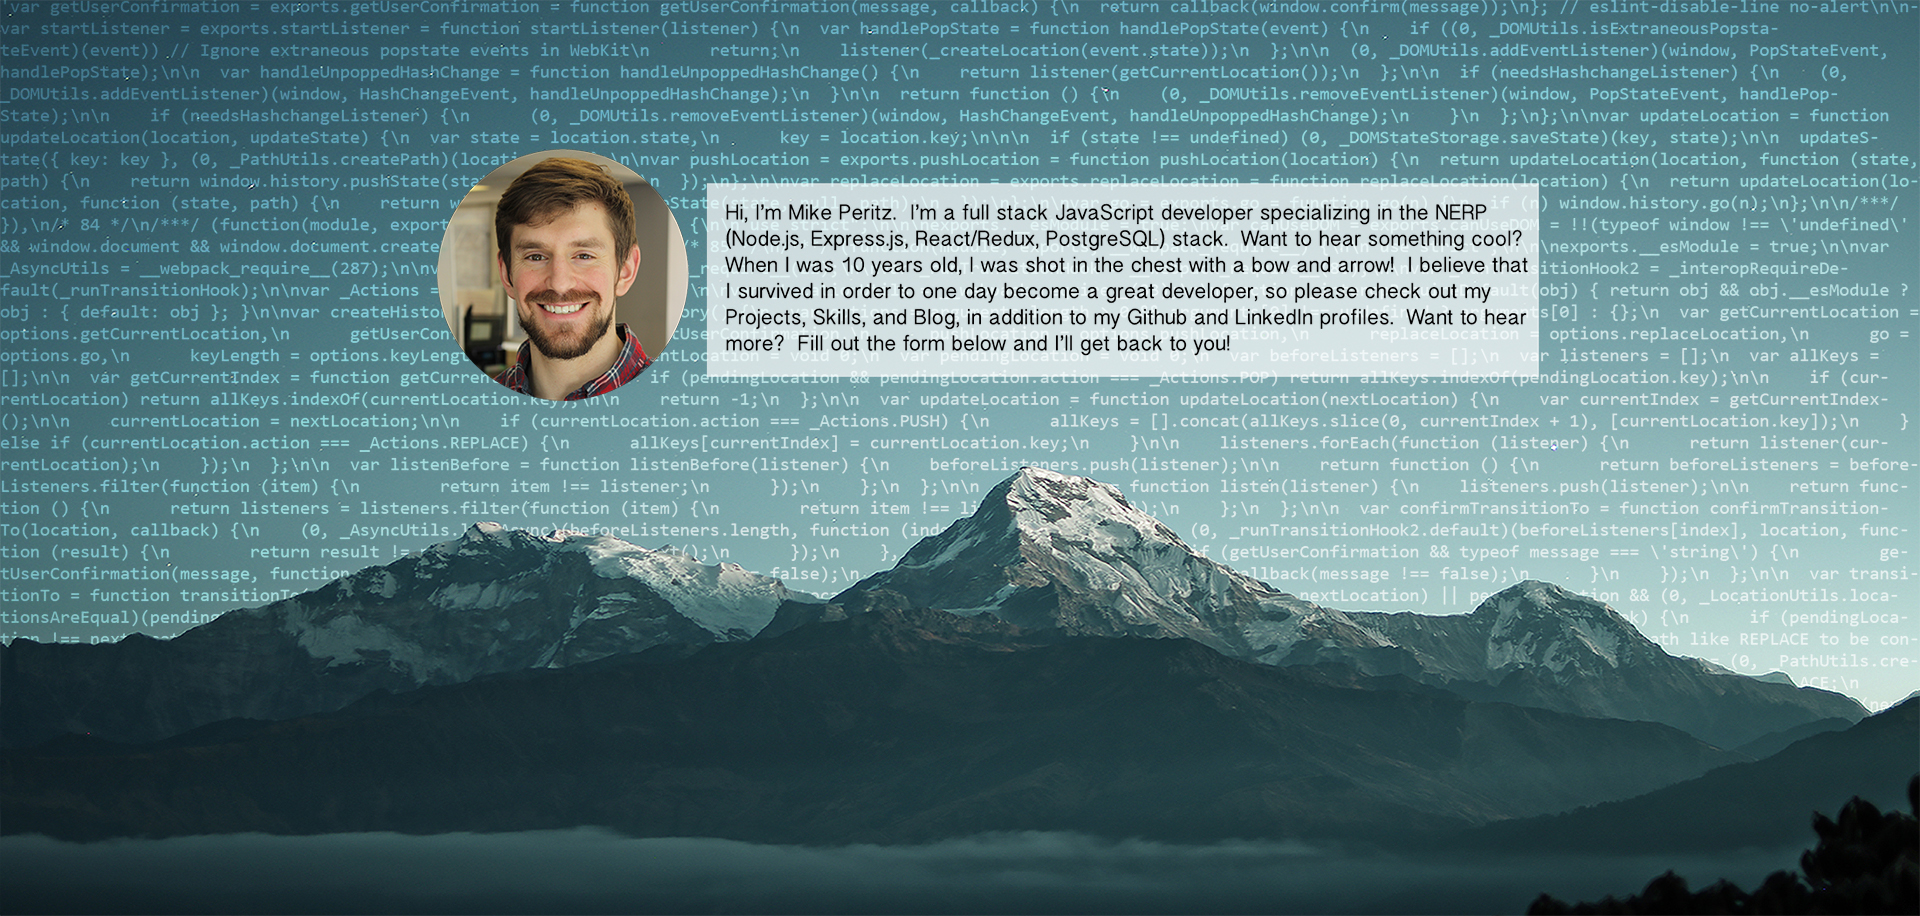
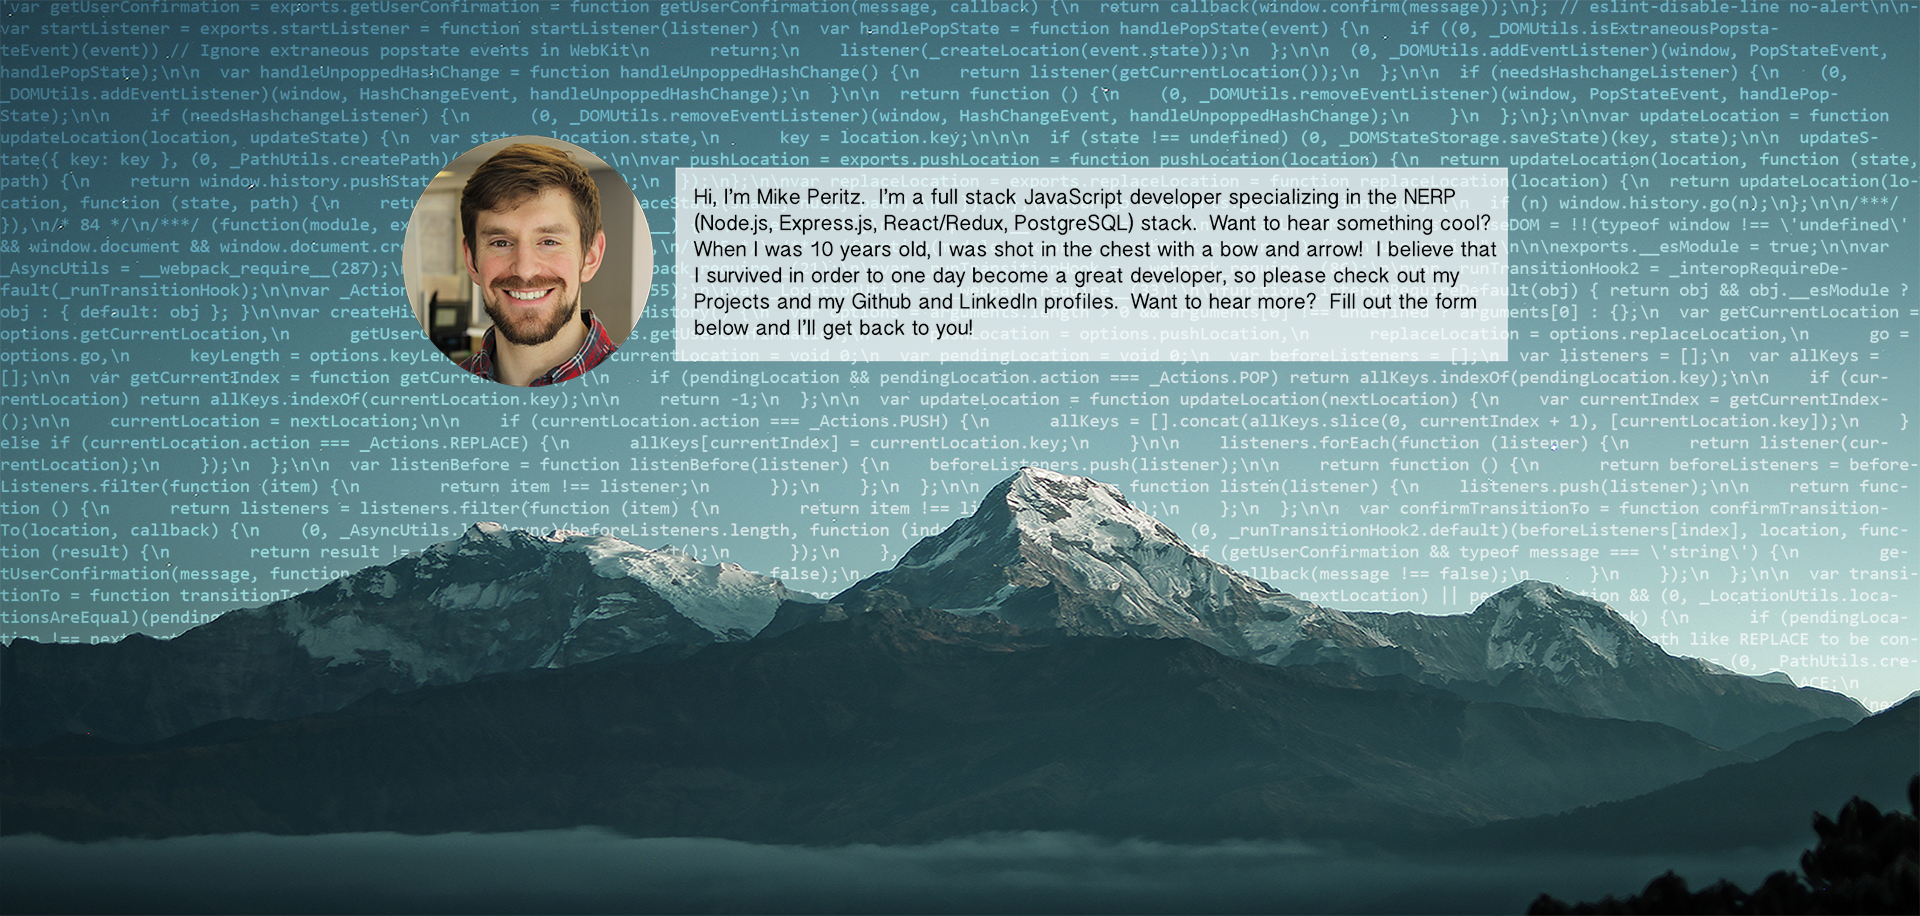
removed unused imgs and added tech talk to projects

Changed region(s): [[0.1875, 0.1223, 0.8125, 0.4585]]

diff --git a/app/components/Projects.jsx b/app/components/Projects.jsx
@@ -1,6 +1,6 @@
 import React, { Component } from 'react'
 
-import {GridList, GridTile} from 'material-ui/GridList'
+import { GridList, GridTile } from 'material-ui/GridList'
 import Modal from 'react-modal'
 
 const styles = {
@@ -52,6 +52,12 @@ const applicationsTiles = [
     about: 'A desktop application built for remote pair programming. Pair.It combines peer-to-peer video, live two-way code editing, and version control through Git and Github to allow pair partners to program together from anywhere.',
     url: 'https://pair-it.herokuapp.com',
     tech: 'React, Redux, Node.js, Express.js, Passport OAuth, WebRTC, Socket.io, Simple-Git, Github API, Enzyme, Jest'
+  },
+  {
+    img: './img/tech-talk.png',
+    title: 'Handling Asynchronicity in JavaScript',
+    about: "A 10 minute talk discussing various methods at the developer's disposal for handling asynchronous events using JS. Topics covered include callbacks, promises, streams, reactive programming, and async-await.  Skip to the end of the video for some useful resources in helping deal with difficult asynchronous situations.",
+    url: 'https://www.youtube.com/watch?v=dSAaLFhlRrc',
   }
 ]
 
@@ -83,11 +89,15 @@ export default class extends Component {
   render() {
     return (
       <div>
+        <div className="center">
+          <h3>Check out some of the things I've created!</h3>
+          <p>Click each project for more information and a link to the project.</p>
+        </div>
         <div style={styles.root}>
           <GridList
             cellHeight={360}
             style={styles.gridList}
-            cols={4}
+            cols={applicationsTiles.length}
           >
             {applicationsTiles.map((tile) => (
               <GridTile
@@ -107,7 +117,7 @@ export default class extends Component {
                   <h2 style={styles.title}>{tile.title}</h2>
                   <img src={tile.img} style={styles.img} />
                   <h4>{tile.about}</h4>
-                  <p>Technologies: {tile.tech}</p>
+                  {tile.tech && <p>Technologies: {tile.tech}</p>}
                   <p>Deployed at: <a href={tile.url}>{tile.url}</a></p>
                 </Modal>
               </GridTile>

diff --git a/app/components/App.jsx b/app/components/App.jsx
@@ -2,8 +2,20 @@ import React from 'react'
 import { Link } from 'react-router'
 
 import AppBar from 'material-ui/AppBar'
-import FlatButton from 'material-ui/FlatButton'
-import FontIcon from 'material-ui/FontIcon'
+import IconButton from 'material-ui/IconButton'
+
+const styles = {
+  appBarIcon: {
+    bottom: 14,
+    right: 14
+  },
+  div: {
+    marginTop: 12
+  },
+  iconButton: {
+    bottom: 3,
+  }
+}
 
 const App = ({ children }) => {
   return (
@@ -11,23 +23,24 @@ const App = ({ children }) => {
       <AppBar
         title="Mike Peritz"
         showMenuIconButton={true}
-        iconElementLeft={<Link to="/home"><img style={{ height: 50, width: 50 }} src="./img/mike-logo.png" /></Link>}
+        iconElementLeft={
+          <Link to="/home">
+            <IconButton tooltip="Home" tooltipPosition="bottom-right" style={styles.appBarIcon}>
+              <img src="./img/mike-logo.png" />
+            </IconButton>
+          </Link>
+        }
       >
-        <div style={{ marginTop: 12 }}>
-          <Link to="/projects"><FlatButton label="Projects" /></Link>
-          <FlatButton label="Skills" />
-          <FlatButton label="Thoughts" />
-          <FlatButton
-            href="https://github.com/mperitz"
-            target="_blank"
-            icon={<FontIcon className="muidocs-icon-custom-github" />}
-          />
-          <FlatButton
-            href="https://www.linkedin.com/in/mike-peritz/"
-            target="_blank"
-          >
-            <img src="./img/linkedin-3-icon.png" style={{ height: 24, width: 24 }} />
-          </FlatButton>
+        <div style={styles.div}>
+          <Link to="/projects">
+            <IconButton tooltip="Projects" style={styles.iconButton}>
+              <img src="./img/project-logo.png" />
+            </IconButton>
+          </Link>
+          <IconButton href="https://github.com/mperitz" iconClassName="muidocs-icon-custom-github" tooltip="Github" />
+          <IconButton href="https://www.linkedin.com/in/mike-peritz/" tooltip="LinkedIn">
+            <img src="./img/linkedin-3-icon.png" />
+          </IconButton>
         </div>
       </AppBar>
       <div>{ children }</div>

diff --git a/app/main.jsx b/app/main.jsx
@@ -1,11 +1,10 @@
 'use strict'
 import React from 'react'
-import {Router, Route, IndexRedirect, browserHistory} from 'react-router'
-import {render} from 'react-dom'
-import {connect, Provider} from 'react-redux'
+import { Router, Route, IndexRedirect, browserHistory } from 'react-router'
+import { render } from 'react-dom'
+import { Provider } from 'react-redux'
 
 import MuiThemeProvider from 'material-ui/styles/MuiThemeProvider'
-import getMuiTheme from 'material-ui/styles/getMuiTheme'
 import injectTapEventPlugin from 'react-tap-event-plugin'
 injectTapEventPlugin()
 
